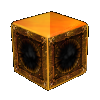
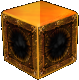
Le zig et le mektoub, et les images recadrees sur ce qu'elles montrent
**Le coffre paraissait petit parce qu'il flottait.** Detoure, il ne remplissait
plus que quarante-trois pour cent de son carre : a taille d'affichage egale, il
paraissait donc deux fois plus petit que le sac, qui remplit le sien. Toutes
les images sont desormais recadrees sur ce qui reste apres detourage -- le
coffre vide en occupait soixante-trois pour cent, la bourse soixante-dix.

**Le zig et le mektoub** sont detoures et poses devant les montures. Ils
partagent la cle `animal1`, `animal2`... : c'est le libelle qui dit laquelle,
et le mektoub sert aussi aux montures, le jeu n'en distinguant pas le dessin.

Le detourage a demande trois essais. La propagation depuis les bords gardait
le ciel ; une segmentation en familles de couleurs n'a su enlever que le sol ;
c'est GrabCut qui a tranche -- sur l'image agrandie huit fois, car a quarante
pixels de cote il ne trouve pas de quoi separer.

**Le menu « Bonus » coupait ses libelles** : une image posee par la feuille de
style n'entre pas dans la largeur qu'un `QMenu` se calcule, et il la peignait
par-dessus le debut des mots. Chaque ligne reserve maintenant le carre de son
image et l'air qui la separe du texte.

296 tests, 56 points au releve, les deux images s'accordent.
GTK 0.74 / dev 1.02, ZyRoom-Qt 1.11.29.

Claude-Session: https://claude.ai/code/session_01EZqV56vAFcgBay2gvAFdsW

diff --git a/zyroom-qt/zyroom/fenetre.py b/zyroom-qt/zyroom/fenetre.py
@@ -243,12 +243,17 @@ IMAGES_CONTENANTS = (("bag", "sac.png"), ("room", "appartement.png"),
                      ("chest", "coffre.png"))
 
 
-def icone_contenant(cle: str) -> QIcon:
-    """L'image d'un sac, d'un appartement ou d'un coffre, ou rien.
+def icone_contenant(cle: str, libelle: str = "") -> QIcon:
+    """L'image d'un contenant : sac, appartement, coffre, monture.
 
-    Les montures -- `animal1`, `animal2`... -- n'en ont pas : le jeu ne
-    fournit d'icone ni pour le mektoub ni pour le zig.
+    Les montures partagent la cle `animal1`, `animal2`... : c'est leur libelle
+    qui dit laquelle -- « Zig 1 », « Mektoub 2 », « Monture 3 ». Le mektoub et
+    la monture montrent la meme bete, le jeu n'en distingue pas le dessin.
     """
+    if cle.startswith("animal"):
+        fichier = "zig.png" if "zig" in libelle.lower() else "mektoub.png"
+        chemin = os.path.join(SYMBOLES, fichier)
+        return QIcon(chemin) if os.path.exists(chemin) else QIcon()
     for prefixe, fichier in IMAGES_CONTENANTS:
         if cle.startswith(prefixe):
             chemin = os.path.join(SYMBOLES, fichier)
@@ -1398,8 +1403,14 @@ class FenetrePrincipale(QMainWindow):
             # lui donne donc la plus grande, et l'on compose chaque icone dans
             # un carre de cette taille -- l'effectif, le perdu et la meteo a
             # pleine echelle, les autres a la leur, centrees.
+            # **Et la place de l'image dans la ligne.** Une image posee par la
+            # feuille n'entre pas dans la largeur que le menu se calcule : il
+            # la peignait par-dessus le debut des libelles, et « Avant-postes »
+            # s'y lisait tronque. On reserve donc, a gauche de chaque ligne,
+            # le carre de l'image et l'air qui la separe du mot.
             menu.setStyleSheet(
-                f"QMenu::icon {{ width: {grand}px; height: {grand}px; }}")
+                f"QMenu::icon {{ width: {grand}px; height: {grand}px; }}"
+                f"QMenu::item {{ padding-left: {grand + 14}px; }}")
             for action, (nom, _etiquette) in zip(menu.actions(), PLUS_PAGES):
                 dedans = grand if nom in PAGES_AGRANDIES else cote
                 action.setIcon(icone_dans_carre(nom, dedans, grand))
@@ -2086,7 +2097,7 @@ class FenetrePrincipale(QMainWindow):
                 # de phrase que l'API laisse pendre apres une parenthese
                 # jamais refermee.
                 self._dd_inv.addItem(
-                    icone_contenant(inv.key),
+                    icone_contenant(inv.key, inv.label),
                     f"{movements.sans_parenthese(inv.label)}"
                     f"{self._remplissage(inv)}")
         self._dd_inv.blockSignals(False)

diff --git a/zyroom-gtk/zyroom/window.py b/zyroom-gtk/zyroom/window.py
@@ -66,7 +66,7 @@ NOM_GRAVE = "ZyRoom"
 
 #: Numéro de la variante lancée. Écrit par `livraison.sh`, jamais à la main :
 #: c'est `version.properties` qui fait foi.
-VERSION = "1.01" if _DEV else "0.73"
+VERSION = "1.02" if _DEV else "0.74"
 
 #: Signature affichée en bas de la fenêtre principale. Cliquable : elle ouvre
 #: l'À propos, où vivent le copyright et la licence.
@@ -4190,8 +4190,16 @@ class MainWindow(Gtk.ApplicationWindow):
         rang = item.get_position()
         cle = (self._inv_keys[rang]
                if 0 <= rang < len(self._inv_keys) else "")
-        fichier = next((f for prefixe, f in self.IMAGES_CONTENANTS
-                        if cle.startswith(prefixe)), "")
+        if cle.startswith("animal"):
+            # Les montures partagent la clé `animal1`, `animal2`… : c'est leur
+            # libellé qui dit laquelle — « Zig 1 », « Mektoub 2 », « Monture
+            # 3 ». Le mektoub et la monture montrent la même bête, le jeu n'en
+            # distingue pas le dessin.
+            libelle = chaine.get_string() if chaine is not None else ""
+            fichier = "zig.png" if "zig" in libelle.lower() else "mektoub.png"
+        else:
+            fichier = next((f for prefixe, f in self.IMAGES_CONTENANTS
+                            if cle.startswith(prefixe)), "")
         chemin = os.path.join(os.path.dirname(os.path.abspath(__file__)),
                               "symboles", fichier) if fichier else ""
         if chemin and os.path.exists(chemin):

diff --git a/zyroom-qt/zyroom/__init__.py b/zyroom-qt/zyroom/__init__.py
@@ -12,10 +12,10 @@ Portage sous licence GNU AGPLv3, d'après le projet original de Misugi
 (https://github.com/misugi/zyroom).
 """
 
-__version__ = "1.11.28"
+__version__ = "1.11.29"
 
 #: Le numero que la mise a jour compare, et lui seul. Un nom se compare mal --
 #: "0.10" vient apres "0.9" pour nous, avant pour un tri de chaines. Il croit
 #: d'une unite a chaque livraison, comme le versionCode d'Android, et c'est ce
 #: meme entier que `version.json` annonce sur la page de telechargement.
-__version_code__ = 51
+__version_code__ = 52
